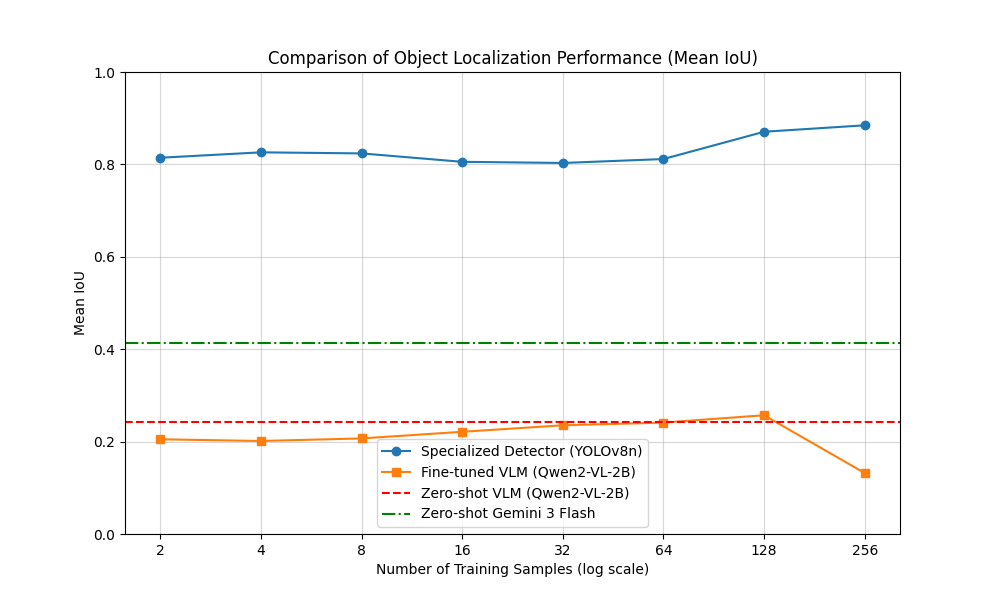
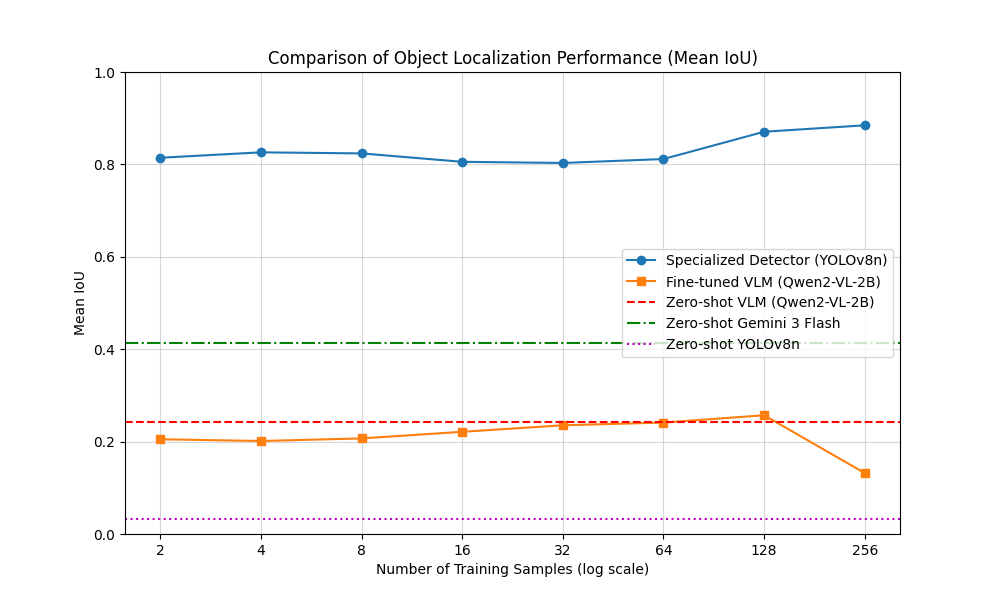
Add YOLO zero-shot baseline

Changed region(s): [[0.62, 0.42, 0.899, 0.6], [0.372, 0.72, 0.651, 0.87]]

diff --git a/vllm/src/plot_results.py b/vllm/src/plot_results.py
@@ -13,11 +13,13 @@ def main():
     vlm_data = pd.read_csv(vlm_file, sep="\t")
     zero_shot_vlm_map50 = 0.0269
     gemini_zero_shot_map50 = 0.1130
+    zero_shot_yolo_map50 = 0.0438
     plt.figure(figsize=(10, 6))
     plt.plot(yolo_data['Size'], yolo_data['mAP@0.5'], marker='o', label='Specialized Detector (YOLOv8n)')
     plt.plot(vlm_data['Size'], vlm_data['mAP@0.5'], marker='s', label='Fine-tuned VLM (Qwen2-VL-2B)')
     plt.axhline(y=zero_shot_vlm_map50, color='r', linestyle='--', label='Zero-shot VLM (Qwen2-VL-2B)')
     plt.axhline(y=gemini_zero_shot_map50, color='g', linestyle='-.', label='Zero-shot Gemini 3 Flash')
+    plt.axhline(y=zero_shot_yolo_map50, color='m', linestyle=':', label='Zero-shot YOLOv8n')
     plt.xscale('log', base=2)
     plt.xticks(yolo_data['Size'], yolo_data['Size'])
     plt.xlabel('Number of Training Samples (log scale)')

diff --git a/vllm/src/plot_iou_results.py b/vllm/src/plot_iou_results.py
@@ -19,11 +19,13 @@ def main():
     vlm_data = pd.read_csv(vlm_file, sep="\t")
     zero_shot_vlm_iou = 0.2419
     gemini_zero_shot_iou = 0.4140
+    zero_shot_yolo_iou = 0.0317
     plt.figure(figsize=(10, 6))
     plt.plot(yolo_curve['Size'], yolo_curve['Mean_IoU'], marker='o', label='Specialized Detector (YOLOv8n)')
     plt.plot(vlm_data['Size'], vlm_data['Mean_IoU'], marker='s', label='Fine-tuned VLM (Qwen2-VL-2B)')
     plt.axhline(y=zero_shot_vlm_iou, color='r', linestyle='--', label='Zero-shot VLM (Qwen2-VL-2B)')
     plt.axhline(y=gemini_zero_shot_iou, color='g', linestyle='-.', label='Zero-shot Gemini 3 Flash')
+    plt.axhline(y=zero_shot_yolo_iou, color='m', linestyle=':', label='Zero-shot YOLOv8n')
     plt.xscale('log', base=2)
     plt.xticks(yolo_curve['Size'], yolo_curve['Size'])
     plt.xlabel('Number of Training Samples (log scale)')

diff --git a/vllm/report.md b/vllm/report.md
@@ -83,9 +83,10 @@
 |-------|-------------------|----------------------------------|
 | YOLOv8n | 0.0438            | 0.9163                           |
 | Qwen2-VL-2B | 0.0269            | 0.0477                           |
+| Gemini 3 Flash | 0.1130            | N/A                              |
 
-The comparison clearly shows that while the VLM has some general understanding of the objects (Mean IoU ~0.24 in zero-shot), it struggles with the precision required for object detection as measured by mAP@0.5, especially when compared to a specialized detector like YOLOv8n. Even with fine-tuning, the VLM's detection performance improves slowly, whereas YOLOv8n quickly reaches high accuracy with minimal data.
+The comparison clearly shows that while models have some general understanding of the objects in zero-shot mode, they struggle with precision. Gemini 3 Flash performs best among zero-shot models. Specialized detectors like YOLOv8n quickly reach very high accuracy with minimal fine-tuning, vastly outperforming even the best zero-shot VLMs or fine-tuned smaller VLMs.
 
-The final plots visualize these trends:
+The final plots visualize these trends, including baseline zero-shot performance for all models:
 ![mAP@0.5 Comparison](plots/results_plot.png)
 ![Mean IoU Comparison](plots/results_iou_plot.png)
